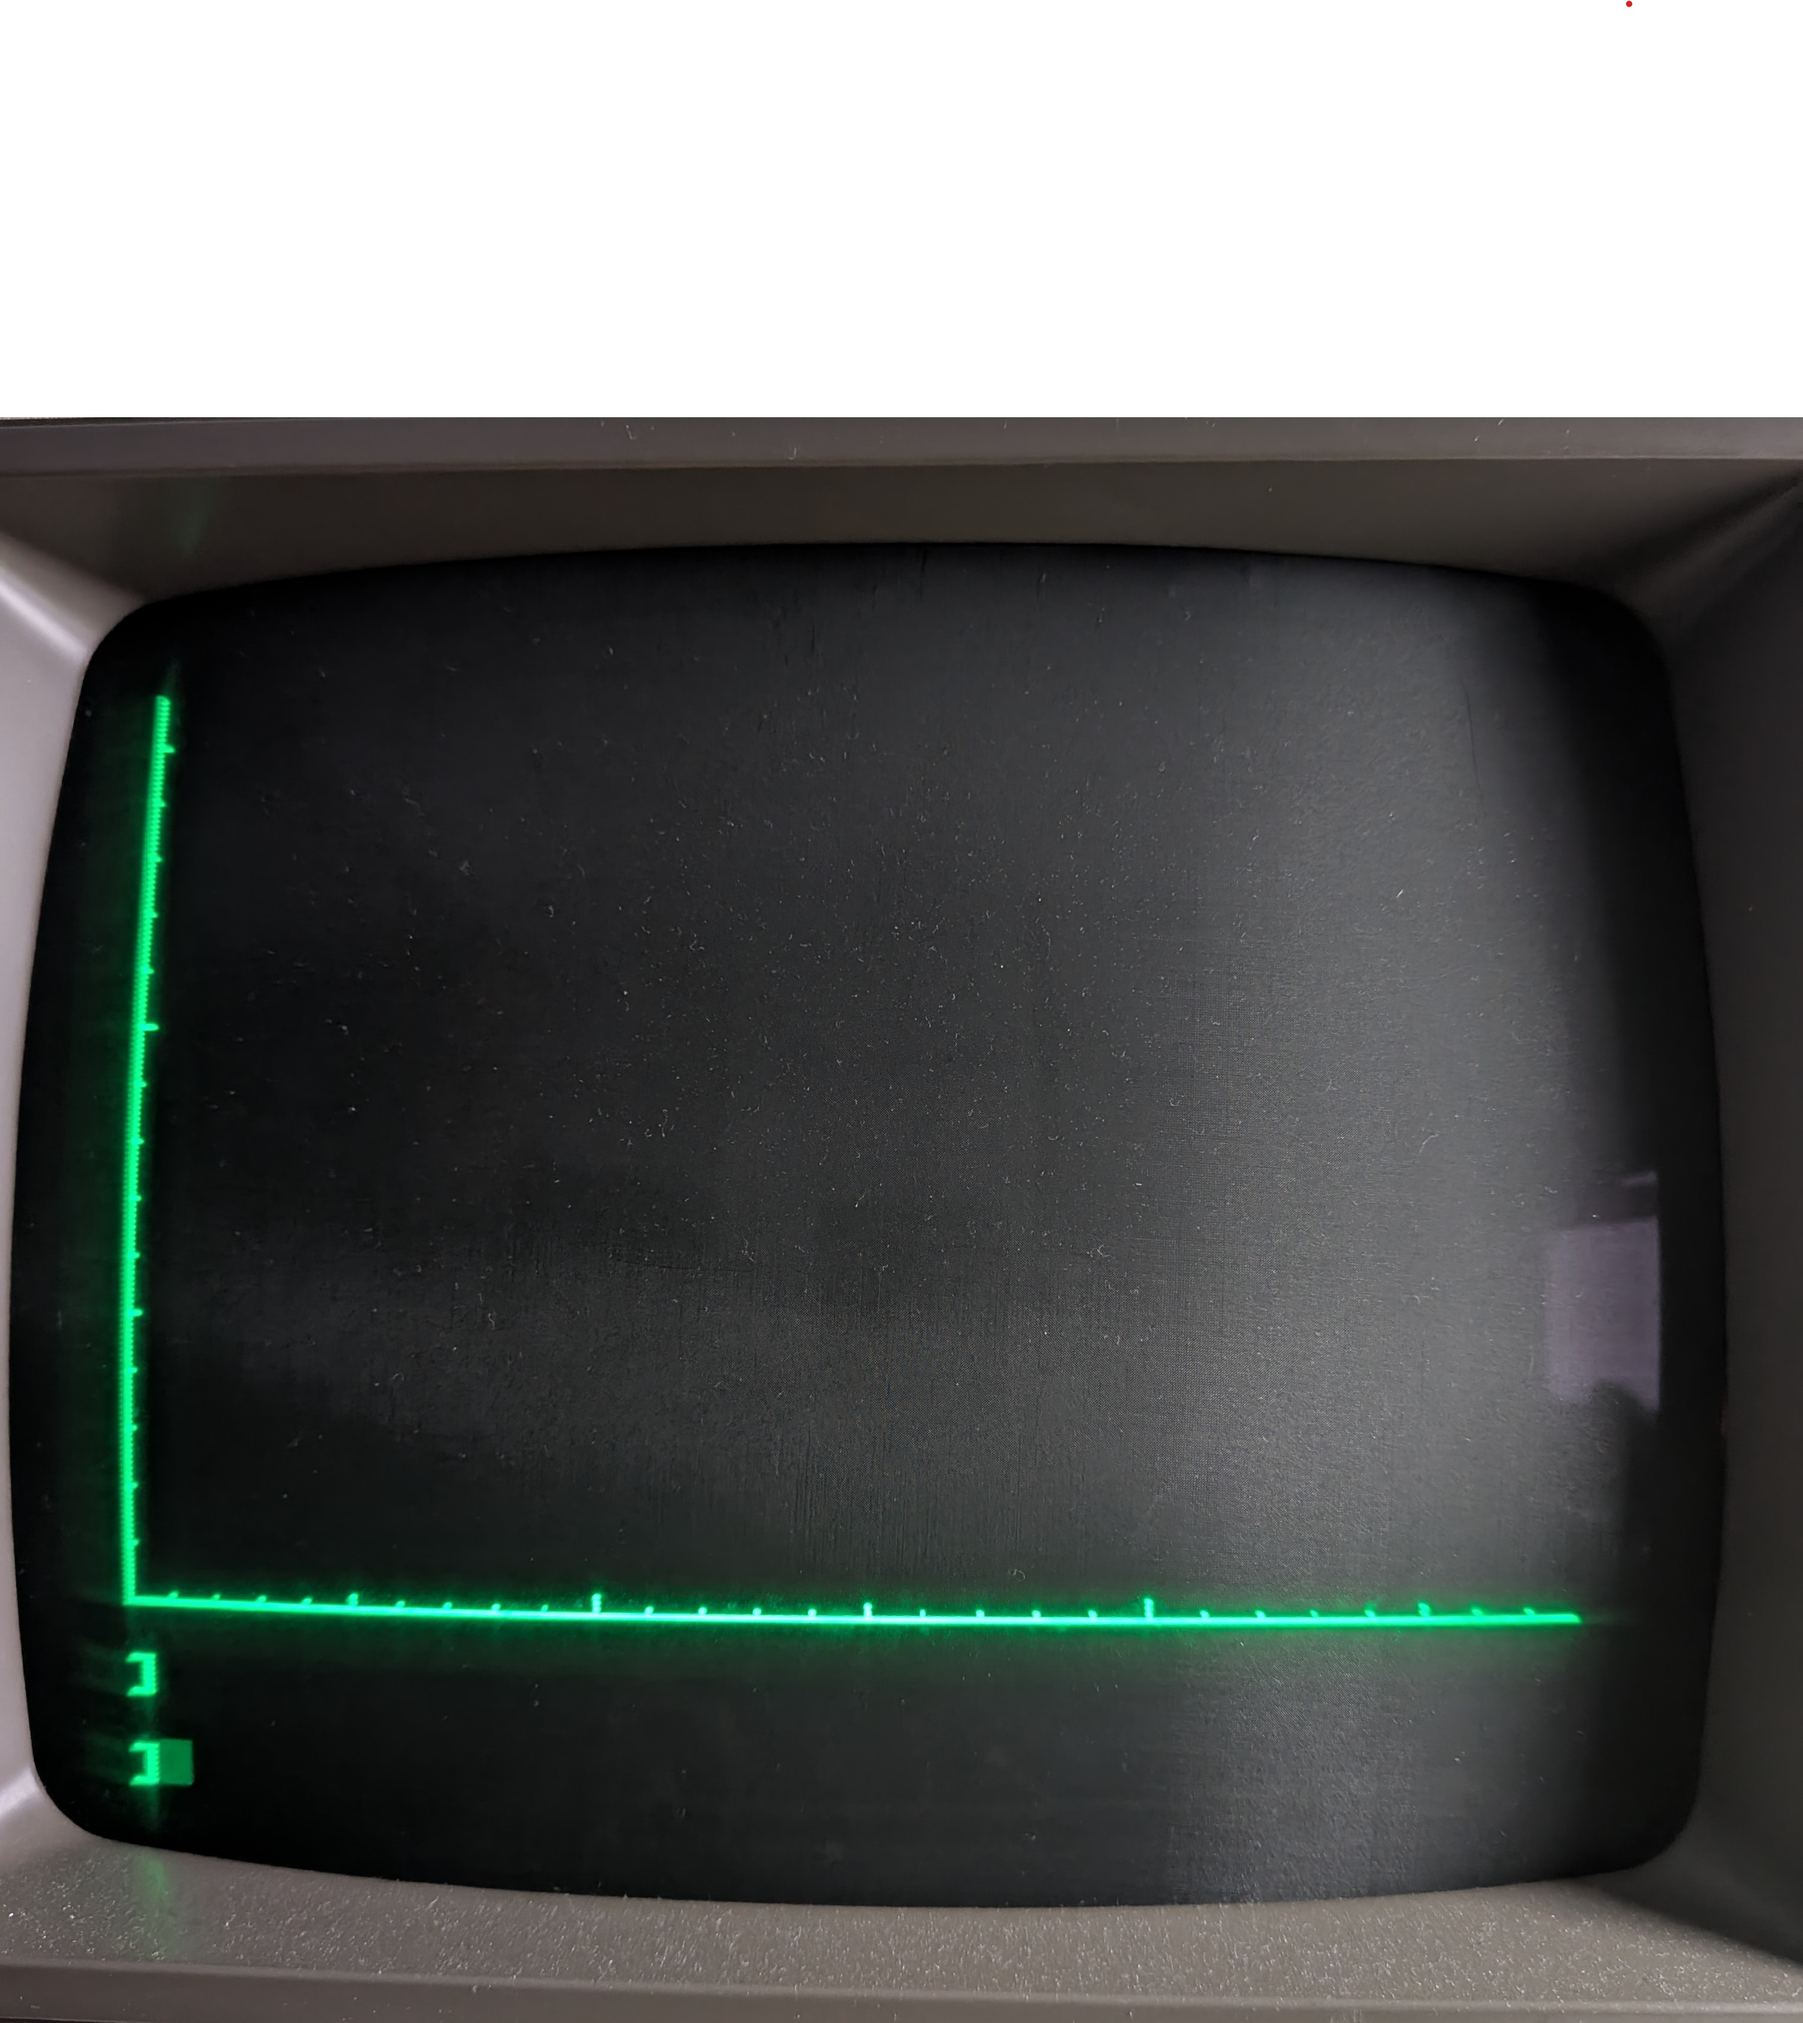
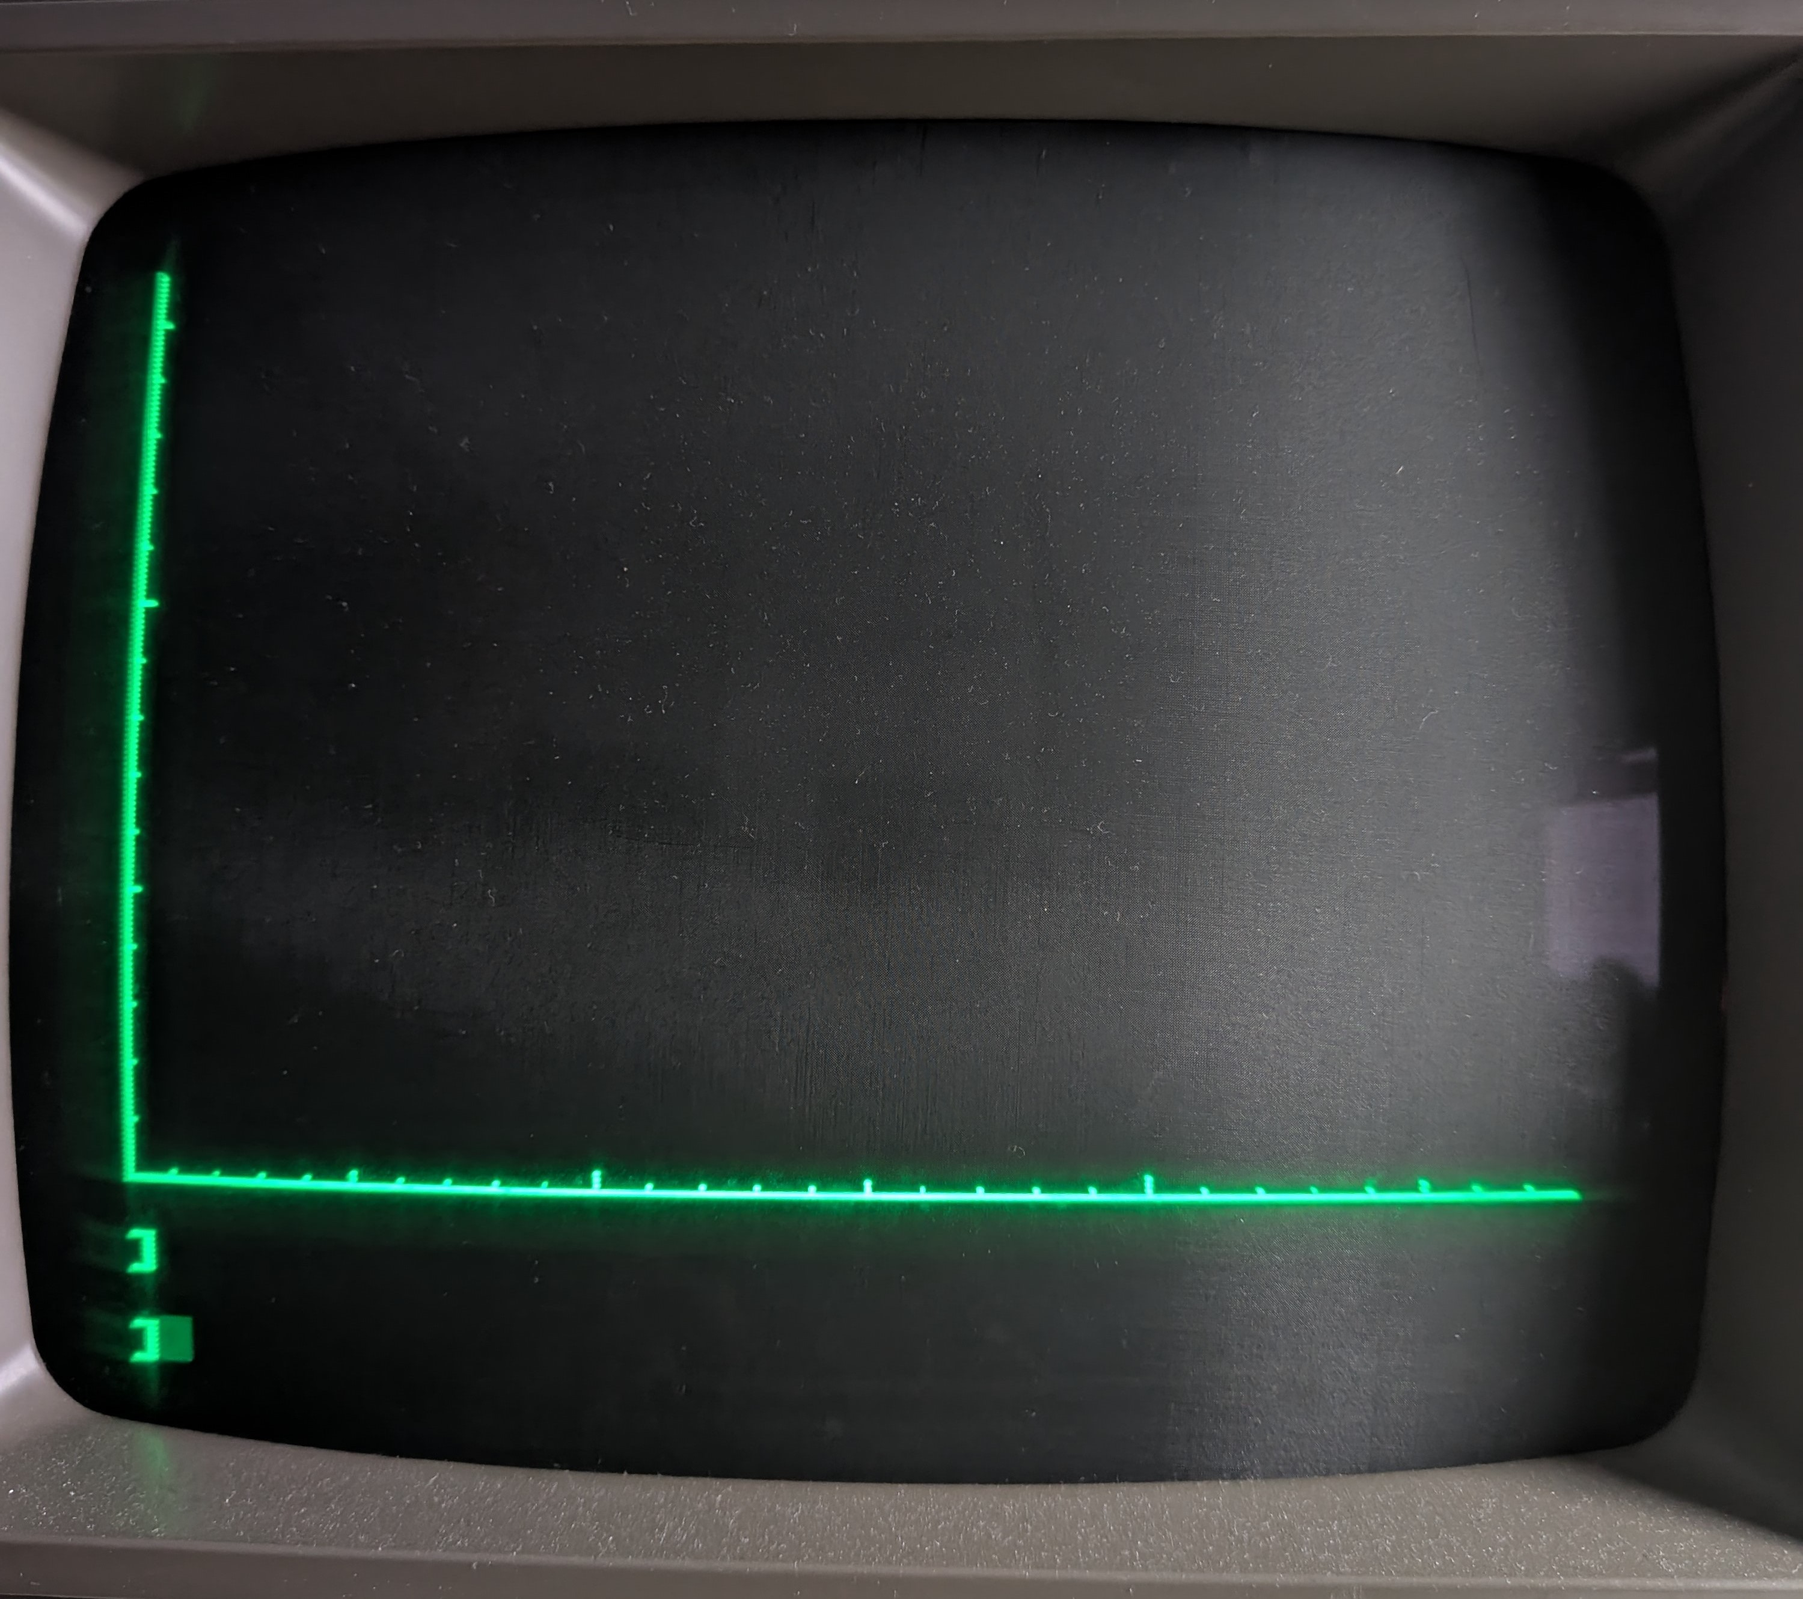
more synthesizing data fixes
added {:target="_blank"} for link to open in new tab. added &nbsp to remove line break from "Apple ][". removed white area at top of axis.jpg.

diff --git a/_apple-2-blog/synthesizing-data.md b/_apple-2-blog/synthesizing-data.md
@@ -7,12 +7,11 @@ tags:
 date: 2025-07-06
 ---
 
-# In the beginning, there was data
-Crestfallen by the seeming impossibility of [recovering](/apple-2-blog/recover/) by beloved [game](https://mortalwayfare.com/remnant-from-the-past/) from high school, I turned my attention to the original [motivation](apple-2-blog/motivation/): developing machine learning on the Apple ][+. Grabbing my manuals, I got to work.
+Crestfallen by the seeming impossibility of [recovering](/apple-2-blog/recover/) by beloved [game](https://mortalwayfare.com/remnant-from-the-past/){:target="_blank"} from high school, I turned my attention to the original [motivation](apple-2-blog/motivation/): developing machine learning on the Apple ][+. Grabbing my manuals, I got to work.
 
 ![Apple 2+ manuals](/assets/images/apple2/manuals.jpg "Apple 2+ manuals")
 
-Every solid machine learning project begins with data. My old clunker, however, is cut off from the world. I never had a modem but I recall one of my best friends using the modem on his Apple ][ to hack long distance access codes. (He since went on to pursue a successful career in telecommunications... naturally.) Even if I had a modem, what would I connect it to? Do those services still even exists? (I'm sure they do but I'm not going to figure that out today.) In the meantime, the plan is to create synthetic data locally.
+Every solid machine learning project begins with data. My old clunker, however, is cut off from the world. I never had a modem but I recall one of my best friends using the modem on his Apple&nbsp][ to hack long distance access codes. (He since went on to pursue a successful career in telecommunications... naturally.) Even if I had a modem, what would I connect it to? Do those services still even exists? (I'm sure they do but I'm not going to figure that out today.) In the meantime, the plan is to create synthetic data locally.
 
 I'm sure everyone is familiar with the [chart](https://scikit-learn.org/stable/auto_examples/classification/plot_classifier_comparison.html) comparing different classification algorithms. Since two-dimensional binary classification seems like a great place to start, I'll need a simple way to graph the data.
 
@@ -152,8 +151,6 @@ Putting it all together, it takes the Apple ][+ about a minute to generate and p
 Watch this video if you'd like to see it run, in all it's glory.
 
 [![Video of Apple2+ synthesizing data](https://img.youtube.com/vi/xi876Gqt4jk/0.jpg)](https://youtube.com/shorts/xi876Gqt4jk "Video of Apple][+ synthesizing data")
-
-https://youtube.com/shorts/xi876Gqt4jk?feature=share
 
 Now that this is out of the way, we'll start by implementing one of the simplest and easiest to understand machine learning algorithms.
 
